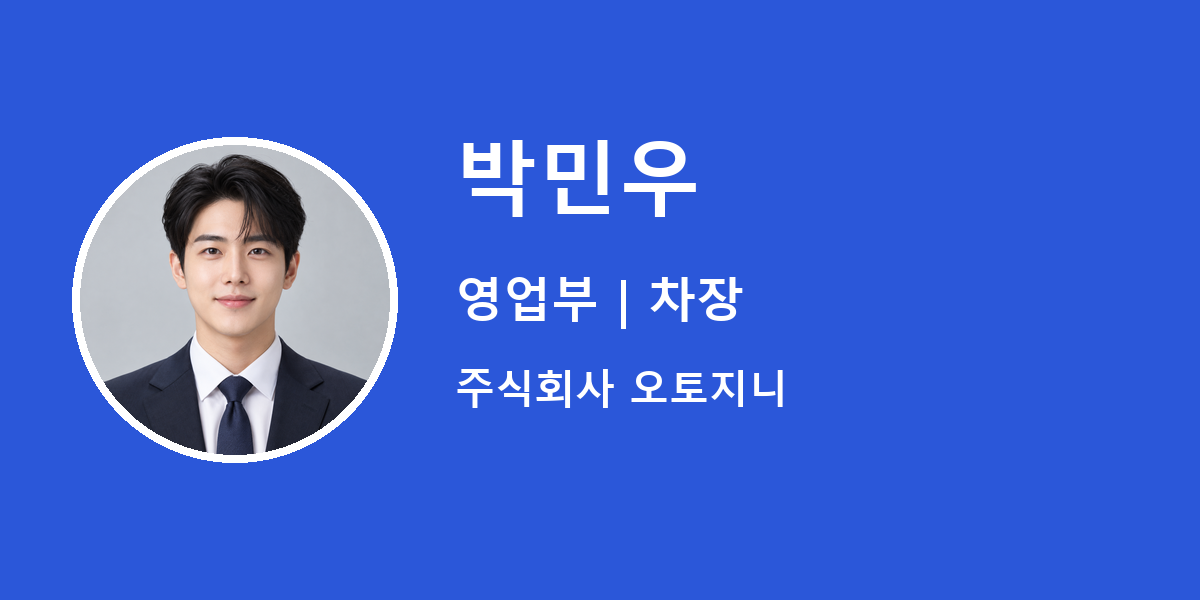
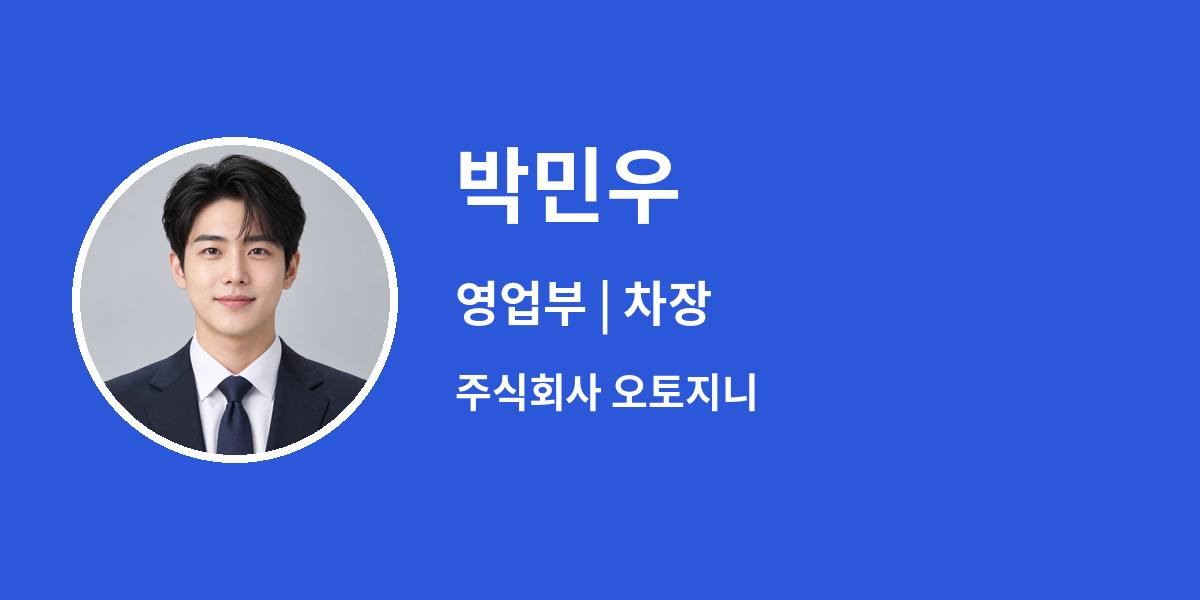
카톡 다시 수정

Changed region(s): [[0.37, 0.24, 0.5858, 0.39], [0.37, 0.6, 0.6783, 0.69], [0.37, 0.45, 0.6167, 0.57]]

diff --git a/script.js b/script.js
@@ -46,6 +46,7 @@ async function loadProfile() {
   if (document.body.dataset.staticCard === 'true') {
     window.currentProfileData = {
       name: document.body.dataset.profileName || '',
+      kakaoId: document.body.dataset.kakaoId || '',
       siteName: document.title
     };
     return;
@@ -68,6 +69,7 @@ async function loadProfile() {
     const name = data.name || profileName;
     const phone = data.phone || '';
     const email = data.email || '';
+    const kakaoId = data.kakaoId || '';
     const department = data.department || '';
     const position = data.position || '';
     const company = data.company || COMPANY_NAME;
@@ -146,6 +148,7 @@ async function loadProfile() {
       name,
       phone,
       email,
+      kakaoId,
       department,
       position,
       company,
@@ -171,26 +174,49 @@ document.addEventListener('DOMContentLoaded', async () => {
   if (kakaoBtn) {
     kakaoBtn.addEventListener('click', async () => {
       const profile = window.currentProfileData || {};
-      const shareData = {
-        title: profile.siteName || document.title,
-        text: '차량 관련 문의는 편하게 연락주세요.',
-        url: window.location.href
-      };
+      const kakaoId = (profile.kakaoId || '').trim();
 
-      if (navigator.share) {
-        try {
-          await navigator.share(shareData);
-          return;
-        } catch (error) {
-          if (error && error.name === 'AbortError') return;
-        }
+      if (!kakaoId) {
+        showToast('등록된 카카오톡 ID가 없습니다.');
+        alert('등록된 카카오톡 ID가 없습니다.');
+        return;
       }
 
+      let copied = false;
+
       try {
-        await navigator.clipboard.writeText(window.location.href);
-        showToast('명함 링크를 복사했습니다. 카카오톡에 붙여넣어 주세요.');
+        if (navigator.clipboard && window.isSecureContext) {
+          await navigator.clipboard.writeText(kakaoId);
+          copied = true;
+        }
       } catch (error) {
-        showToast('현재 환경에서는 공유 기능을 사용할 수 없습니다.');
+        copied = false;
+      }
+
+      if (!copied) {
+        const textarea = document.createElement('textarea');
+        textarea.value = kakaoId;
+        textarea.setAttribute('readonly', '');
+        textarea.style.position = 'fixed';
+        textarea.style.left = '-9999px';
+        document.body.appendChild(textarea);
+        textarea.select();
+
+        try {
+          copied = document.execCommand('copy');
+        } catch (error) {
+          copied = false;
+        }
+
+        textarea.remove();
+      }
+
+      if (copied) {
+        showToast(`카카오톡 ID ${kakaoId}가 복사되었습니다.`);
+        alert(`카카오톡 ID가 복사되었습니다.\n\n${kakaoId}\n\n카카오톡 친구찾기에서 검색해 주세요.`);
+      } else {
+        showToast(`카카오톡 ID: ${kakaoId}`);
+        alert(`카카오톡 ID\n\n${kakaoId}\n\n카카오톡 친구찾기에서 검색해 주세요.`);
       }
     });
   }

diff --git a/cards/김민수/index.html b/cards/김민수/index.html
@@ -17,7 +17,7 @@
 
   <link rel="stylesheet" href="../../style.css">
 </head>
-<body data-static-card="true" data-profile-name="김민수">
+<body data-static-card="true" data-profile-name="김민수" data-kakao-id="eunnn_h2">
   <main class="card-page">
     <section class="profile">
       <div class="profile__top">
@@ -45,7 +45,7 @@
           <strong>전화상담</strong>
         </a>
 
-        <button class="contact-card contact-card--kakao" id="eunnn_h2" type="button">
+        <button class="contact-card contact-card--kakao" id="kakaoBtn" type="button">
           <span class="contact-icon">TALK</span>
           <strong>카톡상담</strong>
         </button>

diff --git a/cards/박민우/index.html b/cards/박민우/index.html
@@ -17,7 +17,7 @@
 
   <link rel="stylesheet" href="../../style.css">
 </head>
-<body data-static-card="true" data-profile-name="박민우">
+<body data-static-card="true" data-profile-name="박민우" data-kakao-id="">
   <main class="card-page">
     <section class="profile">
       <div class="profile__top">

diff --git a/generate.py b/generate.py
@@ -102,6 +102,7 @@ def build_card(template, folder, photo, data):
     name = data.get('name', folder.name).strip()
     phone = data.get('phone', '').strip()
     email = data.get('email', '').strip()
+    kakao_id = data.get('kakaoId', '').strip()
     department = data.get('department', '').strip()
     position = data.get('position', '').strip()
     company = data.get('company', COMPANY_DEFAULT).strip() or COMPANY_DEFAULT
@@ -129,7 +130,7 @@ def build_card(template, folder, photo, data):
     if 'og:image:width' not in s:
         s = s.replace(f'<meta property="og:image" content="{html.escape(og_url)}">', f'<meta property="og:image" content="{html.escape(og_url)}">\n  <meta property="og:image:width" content="1200">\n  <meta property="og:image:height" content="600">')
 
-    s = s.replace('<body>', f'<body data-static-card="true" data-profile-name="{html.escape(name)}">', 1)
+    s = s.replace('<body>', f'<body data-static-card="true" data-profile-name="{html.escape(name)}" data-kakao-id="{html.escape(kakao_id)}">', 1)
     s = s.replace('href="./style.css"', 'href="../../style.css"')
     s = s.replace('src="./script.js"', 'src="../../script.js"')
 
@@ -146,7 +147,7 @@ def build_card(template, folder, photo, data):
     s = replace_id_text(s, 'profileCompany', html.escape(company))
     s = replace_id_text(s, 'phoneText', html.escape(phone))
     s = replace_id_text(s, 'emailText', html.escape(email))
-    s = replace_id_text(s, 'affiliationText', f'오토지니 · {html.escape(department)} · {html.escape(position)}')
+    s = replace_id_text(s, 'affiliationText', html.escape(department))
 
     s = re.sub(r'(<a class="contact-card contact-card--call" id="callLink" href=")[^"]*(")', rf'\1tel:{phone_clean}\2', s, count=1)
     s = re.sub(r'(<a class="contact-card contact-card--sms" id="smsLink" href=")[^"]*(")', rf'\1sms:{phone_clean}\2', s, count=1)
